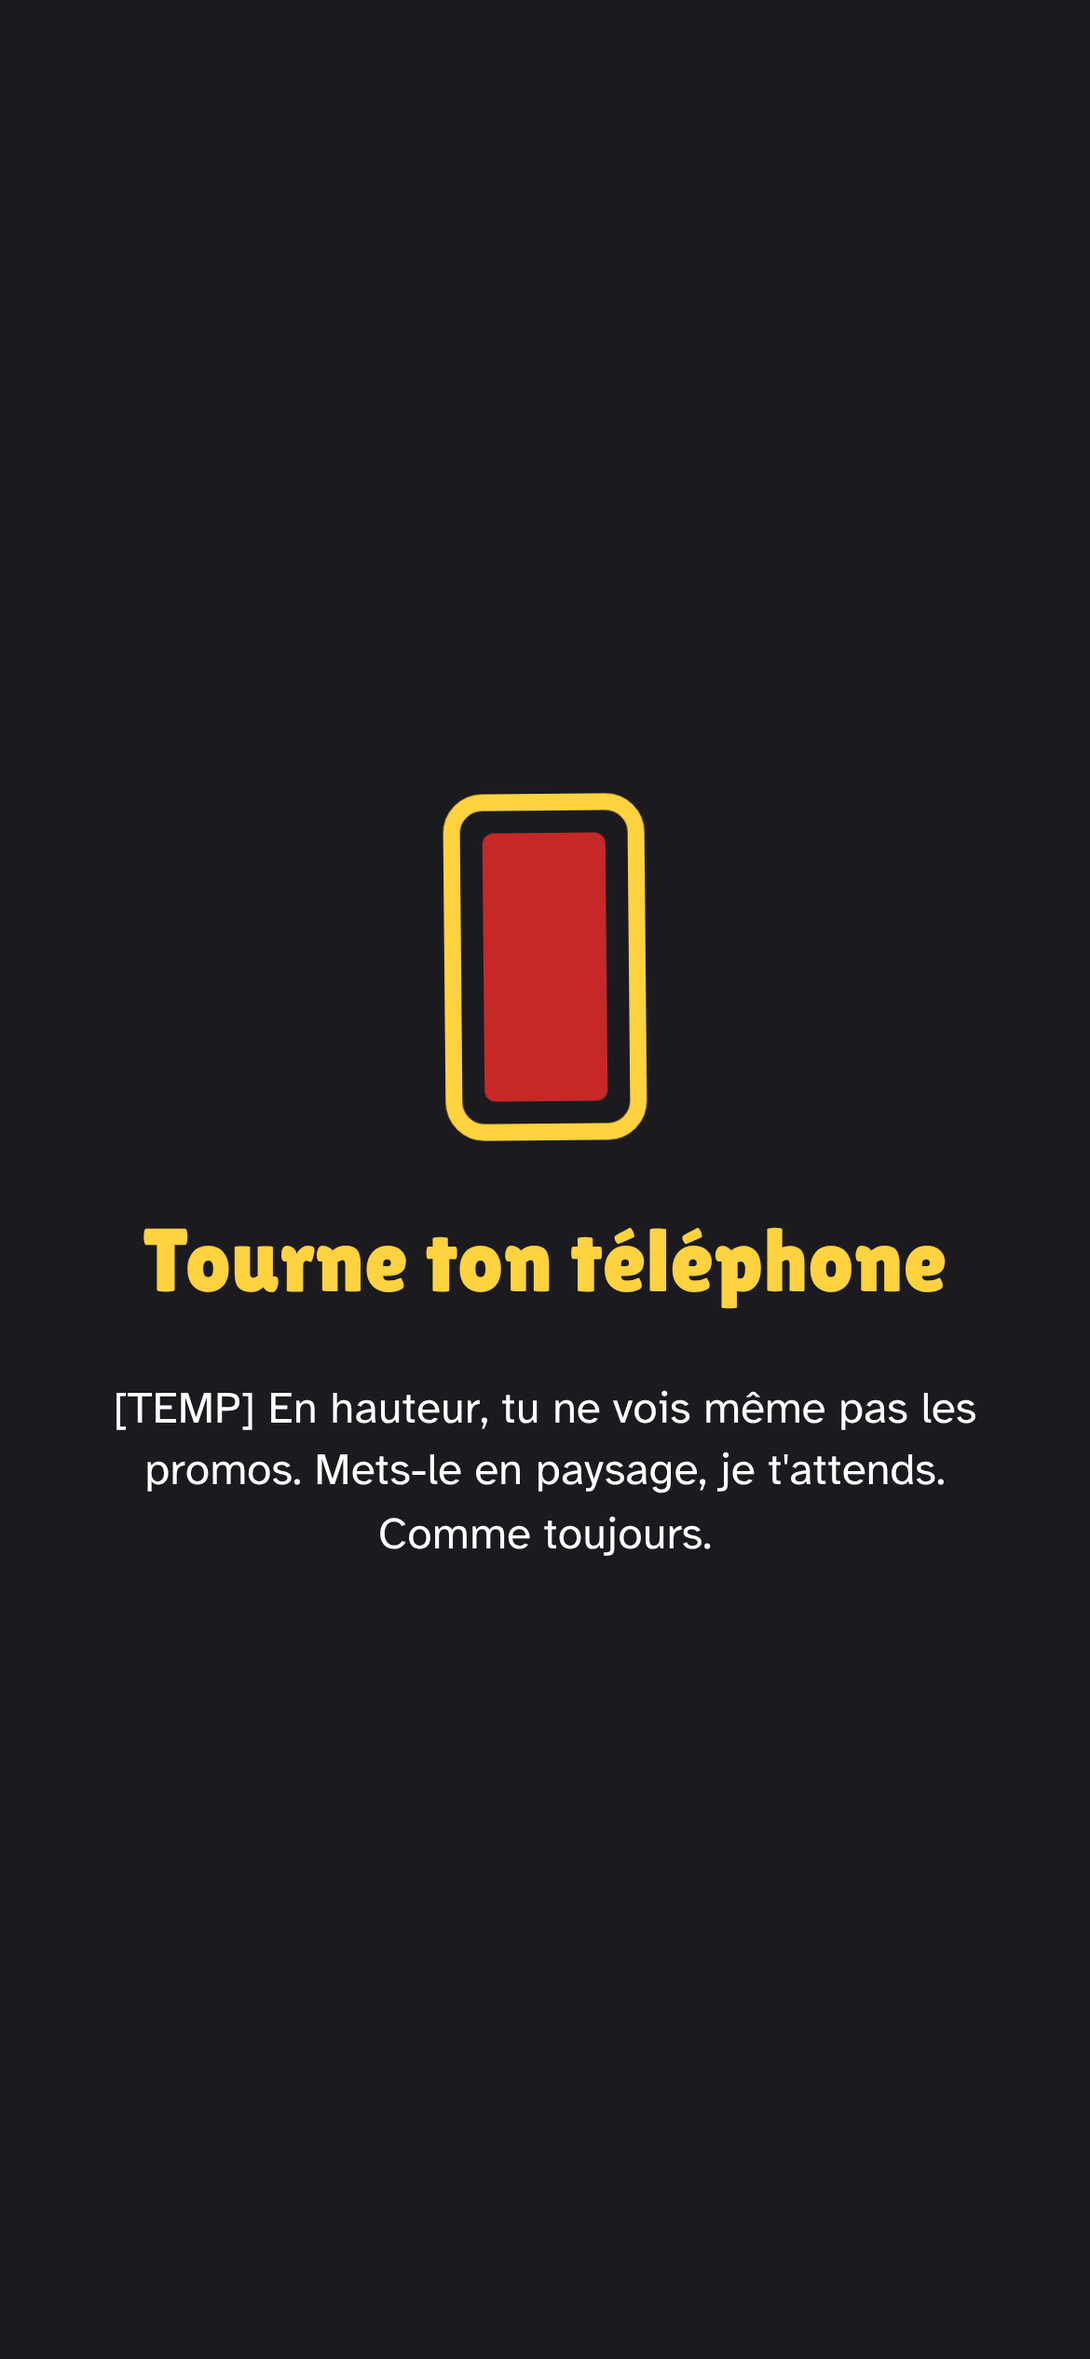
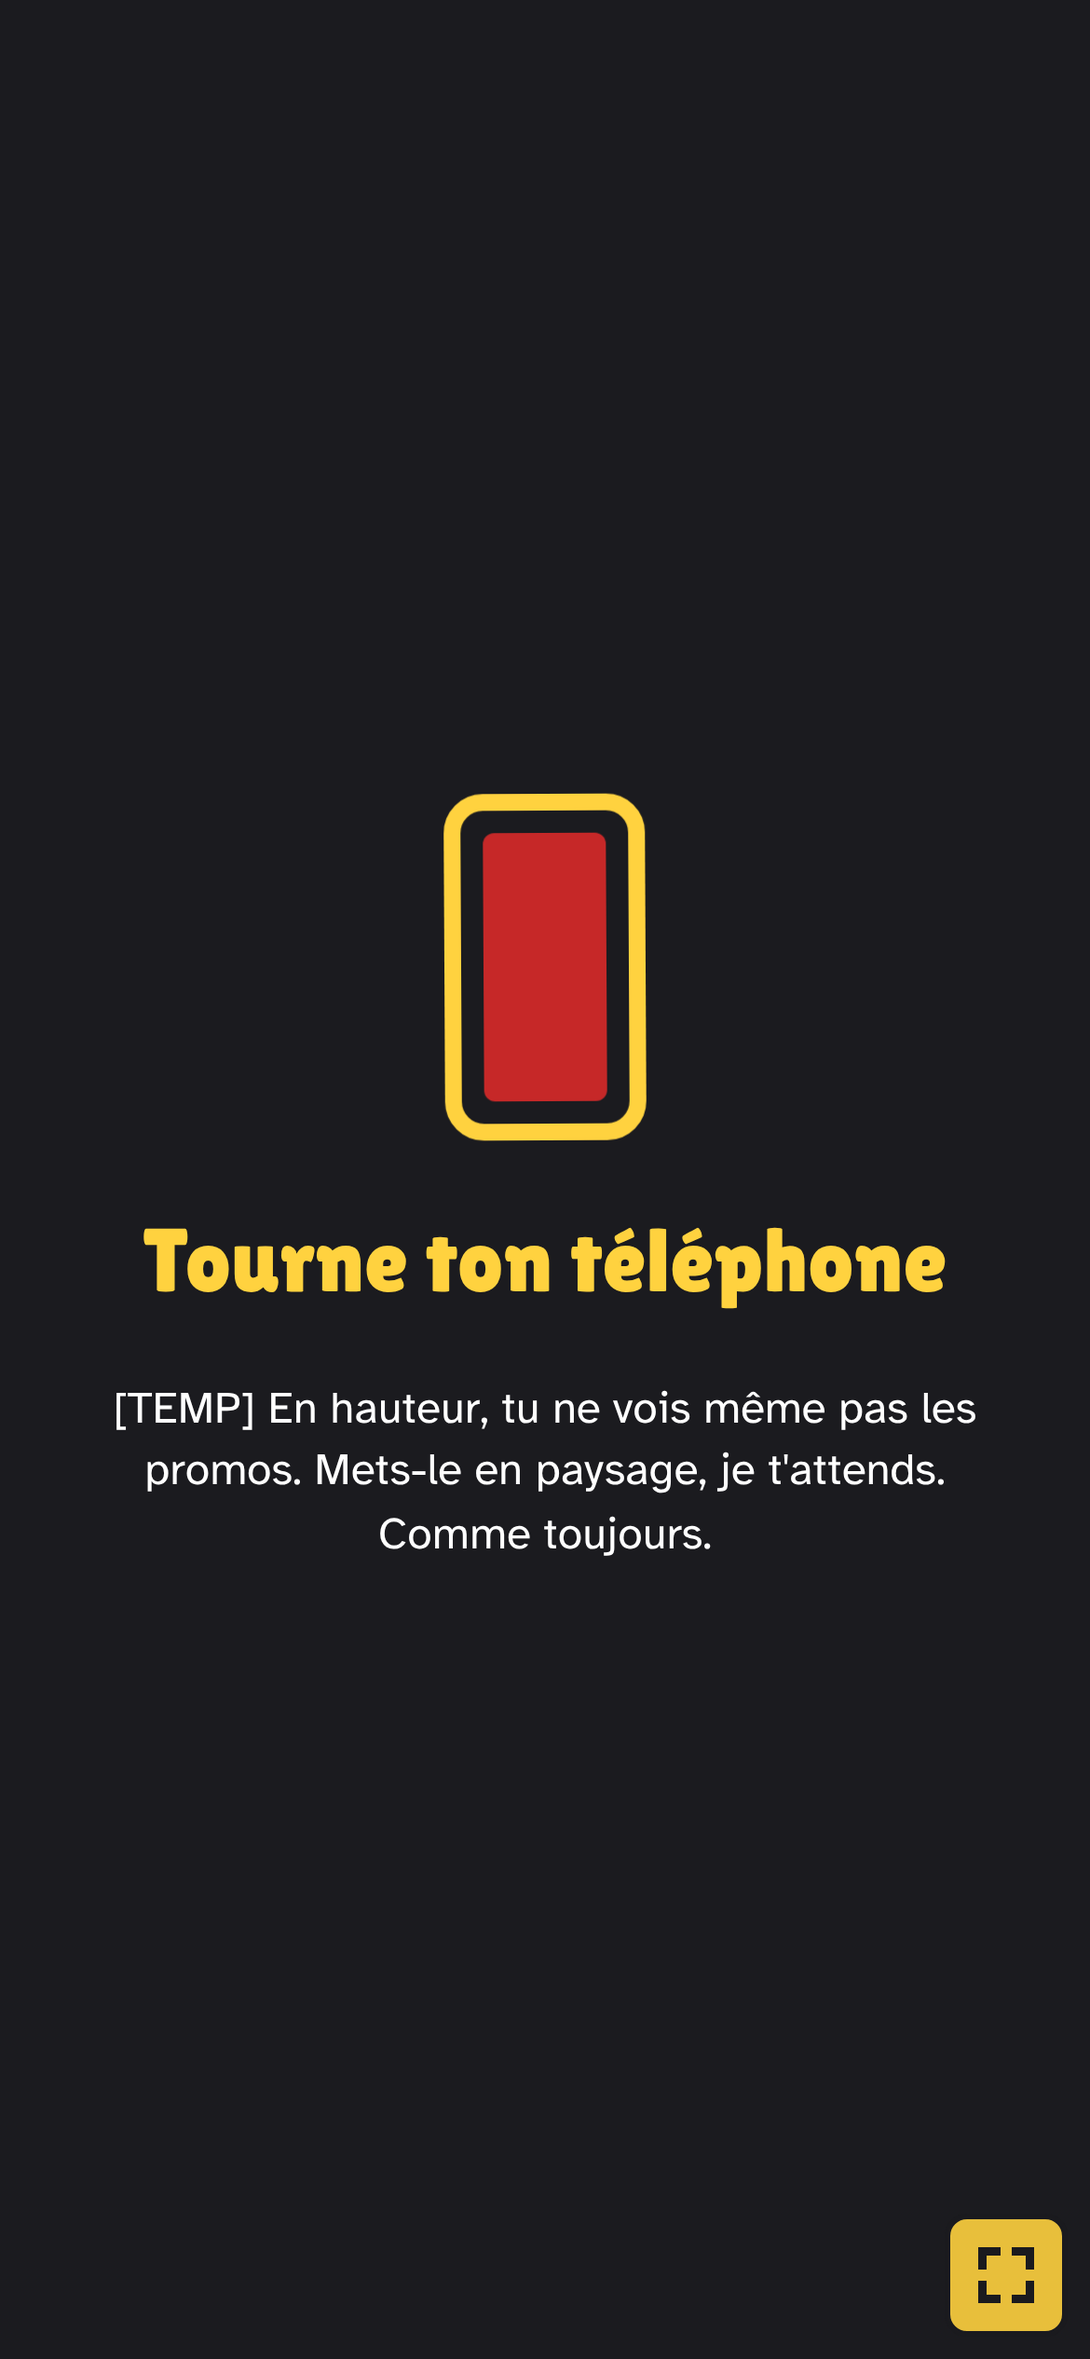
feat: plein écran au premier geste, fenêtre et bouton si le navigateur refuse ; titre sur 2 colonnes sur téléphone
Claude-Session: https://claude.ai/code/session_018pqLJxVkopjkg89gA8qz13

Changed region(s): [[0.8615, 0.936, 0.9846, 0.9984]]

diff --git a/app/src/ui/screens/fullscreen.js b/app/src/ui/screens/fullscreen.js
@@ -1,0 +1,80 @@
+import { el, clear } from '../dom.js';
+
+/**
+ * Plein écran (demande de l'auteur, voir docs/DECISIONS.md).
+ * Un navigateur n'accepte le plein écran que pendant un geste du joueur : on le demande donc au premier
+ * toucher, clic ou appui de touche. S'il refuse, une fenêtre propose de réessayer d'un toucher.
+ * Un petit bouton reste disponible tant qu'on n'est pas en plein écran (après Échap, par exemple).
+ * Tout vit hors de la scène, en px réels. Sans plein écran possible (iPhone), rien ne s'affiche.
+ */
+export function createFullscreen() {
+  let root = null;
+  let toggle = null;
+  let dialog = null;
+  let offs = [];
+
+  return {
+    /**
+     * @param {HTMLElement} layer élément #fullscreen de index.html
+     * @param {{ t: Function, bus: object, platform: object }} ctx
+     */
+    mount(layer, ctx) {
+      const { t, bus, platform } = ctx;
+      root = layer;
+      clear(root);
+      if (!platform.fullscreenSupported()) return;
+
+      // Un refus du navigateur n'est pas une erreur du jeu : on propose simplement le bouton.
+      const enter = () => platform.requestFullscreen().then(() => true, () => false);
+      const refresh = () => {
+        const full = platform.isFullscreen();
+        toggle.hidden = full;
+        if (full) dialog.hidden = true;
+      };
+
+      toggle = el('button', {
+        className: 'fullscreen-toggle',
+        attrs: { type: 'button', 'data-fullscreen': 'toggle', hidden: true, 'aria-label': t('fullscreen.button'), title: t('fullscreen.button') },
+        on: { click: () => enter() },
+      });
+      dialog = el('div', { className: 'fullscreen-dialog', attrs: { role: 'dialog', 'aria-labelledby': 'fullscreen-title', hidden: true, 'data-fullscreen': 'dialog' } }, [
+        el('h2', { className: 'fullscreen-title', text: t('fullscreen.title'), attrs: { id: 'fullscreen-title' } }),
+        el('p', { className: 'fullscreen-text', text: t('fullscreen.text') }),
+        el('div', { className: 'fullscreen-actions' }, [
+          el('button', {
+            className: 'btn fullscreen-accept', text: t('fullscreen.accept'),
+            attrs: { type: 'button', 'data-fullscreen': 'accept' },
+            on: { click: () => { dialog.hidden = true; enter(); } },
+          }),
+          el('button', {
+            className: 'btn fullscreen-later', text: t('fullscreen.later'),
+            attrs: { type: 'button', 'data-fullscreen': 'later' },
+            on: { click: () => { dialog.hidden = true; } },
+          }),
+        ]),
+      ]);
+      root.append(toggle, dialog);
+      platform.onFullscreenChange(refresh);
+      refresh();
+
+      // Premier geste du joueur : tentative automatique, une seule fois par chargement.
+      const off = bus.on('INPUT_ACTION', ({ action }) => {
+        off();
+        if (action === 'DEBUG' || platform.isFullscreen()) return;
+        enter().then((ok) => {
+          if (!ok && !platform.isFullscreen()) dialog.hidden = false;
+        });
+      });
+      offs = [off];
+    },
+
+    update() {},
+
+    unmount() {
+      for (const off of offs) off();
+      offs = [];
+      if (root) clear(root);
+      root = null;
+    },
+  };
+}

diff --git a/app/css/fullscreen.css b/app/css/fullscreen.css
@@ -1,0 +1,84 @@
+/* ---------- Plein écran (hors scène, px réels) ---------- */
+#fullscreen {
+  position: fixed;
+  z-index: 15;
+  inset: 0;
+  pointer-events: none;
+}
+
+#fullscreen > * {
+  pointer-events: auto;
+}
+
+/* En bas à droite, à l'opposé du bouton DBG ; icône carrée dessinée en CSS (4 coins) */
+.fullscreen-toggle {
+  position: fixed;
+  right: 8px;
+  bottom: 8px;
+  width: var(--real-touch-min);
+  height: var(--real-touch-min);
+  padding: 0;
+  border: 2px solid var(--c-ink);
+  border-radius: 8px;
+  background:
+    linear-gradient(var(--c-ink), var(--c-ink)) 10px 10px / 8px 3px,
+    linear-gradient(var(--c-ink), var(--c-ink)) 10px 10px / 3px 8px,
+    linear-gradient(var(--c-ink), var(--c-ink)) calc(100% - 10px) 10px / 8px 3px,
+    linear-gradient(var(--c-ink), var(--c-ink)) calc(100% - 10px) 10px / 3px 8px,
+    linear-gradient(var(--c-ink), var(--c-ink)) 10px calc(100% - 10px) / 8px 3px,
+    linear-gradient(var(--c-ink), var(--c-ink)) 10px calc(100% - 10px) / 3px 8px,
+    linear-gradient(var(--c-ink), var(--c-ink)) calc(100% - 10px) calc(100% - 10px) / 8px 3px,
+    linear-gradient(var(--c-ink), var(--c-ink)) calc(100% - 10px) calc(100% - 10px) / 3px 8px,
+    var(--c-promo-yellow);
+  background-repeat: no-repeat;
+  cursor: pointer;
+  opacity: 0.9;
+}
+
+.fullscreen-dialog {
+  position: fixed;
+  left: 50%;
+  top: 50%;
+  width: min(420px, calc(100vw - 32px));
+  display: flex;
+  flex-direction: column;
+  gap: 12px;
+  padding: 20px;
+  border: 4px solid var(--c-ink);
+  border-radius: 16px;
+  background: var(--c-paper);
+  color: var(--c-ink);
+  box-shadow: 6px 6px 0 var(--c-ink);
+  text-align: center;
+  transform: translate(-50%, -50%);
+}
+
+.fullscreen-title {
+  font-family: var(--font-display);
+  font-size: var(--real-fs-title);
+  font-weight: 400;
+}
+
+.fullscreen-text {
+  font-size: var(--real-fs-body);
+  line-height: 1.4;
+}
+
+.fullscreen-actions {
+  display: flex;
+  justify-content: center;
+  gap: 12px;
+}
+
+.fullscreen-actions .btn {
+  min-height: var(--real-touch-min);
+  padding: 6px 16px;
+  border-width: 3px;
+  font-size: 18px;
+  box-shadow: 3px 3px 0 var(--c-ink);
+}
+
+.fullscreen-accept {
+  background: var(--c-tomato);
+  color: var(--c-white);
+}

diff --git a/app/src/platform/platform.js b/app/src/platform/platform.js
@@ -51,3 +51,28 @@ export function onResume(cb, doc = document) {
     if (!doc.hidden) cb();
   });
 }
+
+/** Vrai si le navigateur permet de mettre la page en plein écran (pas l'iPhone, par exemple). */
+export function fullscreenSupported(doc = document) {
+  return typeof doc.documentElement.requestFullscreen === 'function' && doc.fullscreenEnabled !== false;
+}
+
+/** Vrai si la page est en plein écran. */
+export function isFullscreen(doc = document) {
+  return Boolean(doc.fullscreenElement);
+}
+
+/**
+ * Passe en plein écran. Le navigateur l'exige pendant un geste du joueur (toucher, clic, touche).
+ * Sur téléphone, on tente aussi de bloquer l'écran en paysage (Android ; refus ignoré).
+ * @returns {Promise<void>} rejetée si le navigateur refuse
+ */
+export async function requestFullscreen(doc = document, win = window) {
+  await doc.documentElement.requestFullscreen({ navigationUI: 'hide' });
+  if (isHandheld(win)) win.screen.orientation?.lock?.('landscape')?.catch(() => {});
+}
+
+/** Prévient quand la page entre dans le plein écran ou en sort (touche Échap, bouton retour…). */
+export function onFullscreenChange(cb, doc = document) {
+  doc.addEventListener('fullscreenchange', cb);
+}

diff --git a/app/src/main.js b/app/src/main.js
@@ -17,6 +17,7 @@ import { createStrings } from './ui/strings.js';
 import { createTitleScreen } from './ui/screens/title.js';
 import { createCombatScreen } from './ui/screens/combat.js';
 import { createRotateScreen } from './ui/screens/rotate.js';
+import { createFullscreen } from './ui/screens/fullscreen.js';
 import { showCrash, installCrashHandlers } from './ui/screens/crash.js';
 import { InputHandler } from './input/InputHandler.js';
 import { DEFAULT_BINDINGS } from './input/bindings.js';
@@ -63,6 +64,9 @@ async function boot() {
     ? forcedDelay
     : GAME.AI_DELAY_MIN + Math.round(Math.random() * (GAME.AI_DELAY_MAX - GAME.AI_DELAY_MIN)));
   const ctx = { t, bus, scheduler, tech: TECH, sm, session, aiDelay, navigate: null };
+
+  // Plein écran au premier geste du joueur, ou par un bouton si le navigateur refuse.
+  createFullscreen().mount(doc.getElementById('fullscreen'), { t, bus, platform });
 
   // Rotation : écran superposé et pause (GD §14.5).
   const rotate = createRotateScreen();

diff --git a/app/css/screens.css b/app/css/screens.css
@@ -211,3 +211,27 @@ html[data-profile='compact'] .screen-title {
   border-width: 3px;
   box-shadow: 4px 4px 0 var(--c-ink);
 }
+
+/* Titre sur téléphone : 5 entrées. « Combat rapide » sur toute la largeur, les autres sur 2 colonnes */
+html[data-profile='compact'] .screen-title {
+  --menu-width: 720px;
+  gap: var(--space-s);
+}
+
+html[data-profile='compact'] .title-menu {
+  display: grid;
+  grid-template-columns: 1fr 1fr;
+}
+
+html[data-profile='compact'] .title-menu .btn-primary {
+  grid-column: 1 / -1;
+}
+
+html[data-profile='compact'] .title-tagline {
+  max-width: none;
+}
+
+html[data-profile='compact'] .title-toast {
+  position: absolute;
+  bottom: calc(var(--space-m) + var(--fs-small) * 1.4);
+}

diff --git a/app/index.html b/app/index.html
@@ -11,6 +11,7 @@
   <link rel="stylesheet" href="css/base.css">
   <link rel="stylesheet" href="css/layout.css">
   <link rel="stylesheet" href="css/screens.css">
+  <link rel="stylesheet" href="css/fullscreen.css">
   <link rel="stylesheet" href="css/combat.css">
   <link rel="stylesheet" href="css/board.css">
   <link rel="stylesheet" href="css/cards.css">
@@ -26,6 +27,7 @@
     </main>
   </div>
 
+  <div id="fullscreen"></div>
   <div class="layer layer-rotate" id="rotate" hidden></div>
   <div id="debug-root"></div>
 

diff --git a/app/css/tokens.css b/app/css/tokens.css
@@ -76,7 +76,7 @@ html[data-profile='compact'] {
   --fs-body: calc(30px * var(--text-scale));
   --fs-button: calc(34px * var(--text-scale));
   --fs-heading: calc(48px * var(--text-scale));
-  --fs-logo: calc(150px * var(--text-scale));
+  --fs-logo: calc(120px * var(--text-scale));
   --fs-promo: calc(38px * var(--text-scale));
   --touch-min: 88px; /* 88 × 0,54 ≈ 47 px réels */
   --touch-small: 82px; /* 82 × 0,54 ≈ 44,4 px réels */

diff --git a/CLAUDE.md b/CLAUDE.md
@@ -22,10 +22,11 @@ Ces deux documents sont la référence. Ne pas recopier leurs règles ici : les 
 ## État du projet
 - Documents v2.0 en place dans `docs/`.
 - **J0 — Socle et mise en ligne** : fusionné dans `main` (pull request sidjel/maxi-gouffre#1), tag `v0.0-socle` posé. Testé en ligne par l'auteur sur PC et téléphone : aucun bug. **Polices validées** : Lilita One, Atkinson Hyperlegible, IBM Plex Mono.
-- **J1 — Premier match jouable** : fusionné dans `main` (pull request sidjel/maxi-gouffre#2). Testé en ligne par l'auteur : tout fonctionne. Tag à poser : `v1.0-premier-match`. Contenu : « Combat rapide » depuis le titre, contre l'IA Noob (Chad Prot') ; 20 cartes et 6 plats en données (effets présents mais pas résolus) ; plateau 2.5D ou à plat ; main ; pose au pointeur ; Malus ; passer avec confirmation ; scores en direct ; 3 manches, manche nulle, départage, qui commence ; chifoumi ; fins de manche et de match ; `Store`, `Session`.
-- **Corrections du J1** (branche `fix-j1-lisibilite`, pull request vers `main`), d'après les retours de l'auteur : panneau de droite réorganisé (effet, fraîcheur, description en avant ; stades en retrait ; défilement ; « Comment jouer » sans carte visée), cases au format des cartes avec les noms des lignes, consigne au-dessus du plateau, jauge de fraîcheur sur les faces compactes, boutons « À plat » et « Quitter » réduits. Nouveau test `tests/e2e/info-band.mjs` (78 fiches × 3 tailles).
-- Vérifications : `npm run check` (données, registre, tailles, recherches interdites, tests unitaires) ; `npm run e2e` (smoke, `play-match.mjs`, `info-band.mjs`) et `npm run shots` utilisent Playwright (déjà présent dans les sessions cloud, sinon `npm install`). Les matchs e2e tournent avec le vrai délai de l'IA (~1 min 30 au total).
-- Dans les sessions cloud, pousser un tag échoue et sidjel.github.io n'est pas joignable : l'auteur pose les tags et teste en ligne.
+- **J1 — Premier match jouable** : fusionné dans `main` (pull request sidjel/maxi-gouffre#2), tag `v1.0-premier-match` posé par l'auteur. Testé en ligne : tout fonctionne. Contenu : « Combat rapide » depuis le titre, contre l'IA Noob (Chad Prot') ; 20 cartes et 6 plats en données (effets présents mais pas résolus) ; plateau 2.5D ou à plat ; main ; pose au pointeur ; Malus ; passer avec confirmation ; scores en direct ; 3 manches, manche nulle, départage, qui commence ; chifoumi ; fins de manche et de match ; `Store`, `Session`.
+- **Corrections du J1** : fusionnées (pull request sidjel/maxi-gouffre#4), d'après les retours de l'auteur : panneau de droite réorganisé (effet, fraîcheur, description en avant ; stades en retrait ; défilement ; « Comment jouer » sans carte visée), cases au format des cartes avec les noms des lignes, consigne au-dessus du plateau, jauge de fraîcheur sur les faces compactes, boutons « À plat » et « Quitter » réduits. Nouveau test `tests/e2e/info-band.mjs` (78 fiches × 3 tailles).
+- **Plein écran** (branche `fix-plein-ecran`, pull request vers `main`) : au premier geste du joueur, fenêtre si le navigateur refuse, petit bouton en bas à droite ; titre sur 2 colonnes sur téléphone. Option du GD §15.4 (défaut « Non ») à revoir avec l'auteur au J7.
+- Vérifications : `npm run check` (données, registre, tailles, recherches interdites, tests unitaires) ; `npm run e2e` (smoke, `play-match.mjs`, `info-band.mjs`, `fullscreen.mjs`) et `npm run shots` utilisent Playwright (déjà présent dans les sessions cloud, sinon `npm install`). Les matchs e2e tournent avec le vrai délai de l'IA (~1 min 30 au total).
+- Dans les sessions cloud, GitHub refuse l'envoi de tags (HTTP 403, les branches passent) et sidjel.github.io n'est pas joignable : l'auteur pose les tags (page Releases de GitHub) et teste en ligne.
 - Prochain jalon : **J2 — Effets, vieillissement, IA Gamer** (`ARCHITECTURE.md` §18). Points ouverts : départage aux points même avec 1 manche gagnée contre 2 nulles (DECISIONS J1) ; l'IA Noob vide souvent sa main dès la manche 1, à mesurer par la simulation.
 
 Mettre à jour la section « État du projet » à la fin de chaque jalon.

diff --git a/docs/DECISIONS.md b/docs/DECISIONS.md
@@ -63,3 +63,14 @@ Format : date · jalon · décision · raison.
 | 2026-11-06 | Je garde les noms de ligne **Avant / Arrière** sur le plateau. | Les effets du J2 dépendent de la ligne (GD §8.1), et chaque description d'effet commence par « En ligne Avant » ou « En ligne Arrière ». Le nom de la ligne relie les deux. La teinte plus claire de la ligne Avant reste en plus. |
 | 2026-11-06 | Face compacte : **jauge de fraîcheur en 3 segments** le long du bord bas, en plus de l'icône de stade. Le nom de la carte n'y figure pas. | Retour de l'auteur. Le nom ne tient pas lisiblement sur une carte de 50 px réels de large (texte < 12 px) ; il est dans le panneau de droite. La face complète (nom et jauge) reste en main sur grand écran, profil `wide`. |
 | 2026-11-06 | Boutons « À plat » et « Quitter » : hauteur `--touch-small` (78 px logiques en `wide`, 82 en `compact`), soit au moins 44 px réels. | Retour de l'auteur : boutons peu utilisés. On ne descend pas sous TOUCH_MIN_PX. |
+
+## Plein écran
+
+| Date | Décision | Raison |
+|---|---|---|
+| 2026-11-06 | **Plein écran demandé au premier geste du joueur** (première action reçue par `InputHandler` : toucher, clic ou touche reconnue), une seule fois par chargement. | Les navigateurs refusent le plein écran sans geste du joueur : impossible dès l'ouverture de la page. C'est le plus tôt possible. |
+| 2026-11-06 | Refus du navigateur : fenêtre « Jouer en plein écran ? » une seule fois, puis le petit bouton en bas à droite. Le refus n'est pas écrit dans la console. | Demande de l'auteur. Un refus n'est pas une erreur du jeu, et la console doit rester propre. |
+| 2026-11-06 | Si le joueur quitte le plein écran (Échap, geste du système), le jeu ne le relance pas tout seul ; le bouton réapparaît. | Respecter le choix du joueur. |
+| 2026-11-06 | Ce comportement remplace pour l'instant l'option « Plein écran : Non par défaut » du GD §15.4. L'option arrive au J7 ; je propose qu'elle soit alors « Oui » par défaut. **À valider par l'auteur, et à reporter dans le GD s'il le souhaite.** | La demande de l'auteur contredit la valeur par défaut écrite dans le GD, que je ne modifie pas sans son accord. |
+| 2026-11-06 | Sur téléphone Android en plein écran, tentative de blocage en paysage (`screen.orientation.lock`), refus ignoré. | GD §14.5 : paysage obligatoire. L'écran « Tourne ton téléphone » reste pour les autres cas. |
+| 2026-11-06 | Écran titre sur téléphone : menu sur 2 colonnes, « Combat rapide » sur toute la largeur, logo à 120 px logiques. | Corrige un débordement introduit au J1 avec la 5ᵉ entrée. |

diff --git a/CHANGELOG.md b/CHANGELOG.md
@@ -2,6 +2,20 @@
 
 Une entrée par jalon (ARCHITECTURE.md §18). Tag `vN.0-nom` posé après la fusion dans `main`.
 
+## Plein écran (2026-11-06)
+
+Demande de l'auteur : le jeu passe en plein écran tout seul, sur PC et téléphone.
+
+### Ajouté
+- Plein écran au **premier geste du joueur** (toucher, clic ou touche) : un navigateur n'accepte jamais le plein écran sans geste. Sur téléphone Android, l'écran est aussi bloqué en paysage quand c'est possible.
+- Si le navigateur refuse : fenêtre « Jouer en plein écran ? » avec « Plein écran » et « Plus tard ».
+- Petit bouton (icône à 4 coins) en bas à droite, visible tant que le jeu n'est pas en plein écran (par exemple après Échap). Aucune nouvelle tentative automatique si le joueur sort du plein écran exprès.
+- Sans plein écran possible (iPhone, par exemple), ni bouton ni fenêtre.
+- `platform.js` : `fullscreenSupported`, `isFullscreen`, `requestFullscreen`, `onFullscreenChange`. Écran `ui/screens/fullscreen.js`, style `css/fullscreen.css`. Tests `tests/e2e/fullscreen.mjs` (5 cas).
+
+### Corrigé
+- Écran titre sur téléphone : avec « Combat rapide », le logo était coupé en haut et la version chevauchait « Crédits ». Le menu passe sur 2 colonnes, avec « Combat rapide » sur toute la largeur.
+
 ## Corrections du J1 — lisibilité du combat (2026-11-06)
 
 Retours de l'auteur après le test en ligne du J1.
